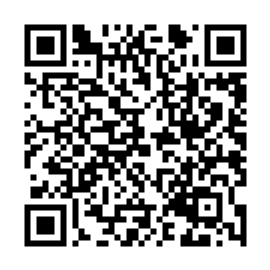
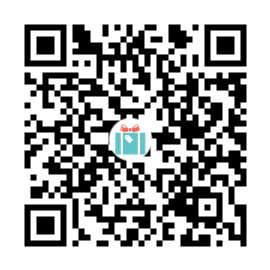
add: images and update UI in views of finished tsumitate and ticket to use

Changed region(s): [[0.3852, 0.4148, 0.563, 0.5926]]

diff --git a/lib/views/tsumitate/tsumitate_view.dart b/lib/views/tsumitate/tsumitate_view.dart
@@ -2,6 +2,7 @@ import 'package:flutter/cupertino.dart';
 import 'package:flutter/material.dart';
 import 'package:gohoubi_app/constants.dart';
 import 'package:gohoubi_app/models/user.dart';
+import 'package:gohoubi_app/views/ticket/components/ticket_use_view.dart';
 
 class TsumitateView extends StatelessWidget {
   @override
@@ -76,7 +77,7 @@ class TsumitateView extends StatelessWidget {
                                             ),
                                       ),
                                       Text(
-                                        '25600円',
+                                        '32000円',
                                         style: Theme.of(context)
                                             .textTheme
                                             .headline5
@@ -88,7 +89,7 @@ class TsumitateView extends StatelessWidget {
                                   ),
                                 ),
                                 Image.asset(
-                                  'assets/images/progress_823.png',
+                                  'assets/images/progress_100.png',
                                   height: 120,
                                 )
                               ],
@@ -147,7 +148,7 @@ class TsumitateView extends StatelessWidget {
                                             ),
                                       ),
                                       Text(
-                                        '80',
+                                        '2',
                                         style: Theme.of(context)
                                             .textTheme
                                             .headline5
@@ -166,84 +167,100 @@ class TsumitateView extends StatelessWidget {
                     ],
                   ),
                 ),
+                // Padding(
+                //   padding: const EdgeInsets.all(16.0),
+                //   child: Column(
+                //     crossAxisAlignment: CrossAxisAlignment.start,
+                //     children: [
+                //       Text(
+                //         '一緒に積立をしているフレンド',
+                //         style: Theme.of(context).textTheme.subtitle2.copyWith(
+                //               color: treapColor,
+                //               fontWeight: FontWeight.bold,
+                //             ),
+                //       ),
+                //       Padding(
+                //         padding: const EdgeInsets.only(
+                //           top: 8.0,
+                //           bottom: 4.0,
+                //           left: 4.0,
+                //           right: 4.0,
+                //         ),
+                //         child: Container(
+                //           decoration: BoxDecoration(
+                //               borderRadius: BorderRadius.circular(8.0)),
+                //           height: 200,
+                //           child: ListView(
+                //             children: [
+                //               ListTile(
+                //                 title: Text(
+                //                   'Eika',
+                //                   style: Theme.of(context)
+                //                       .textTheme
+                //                       .subtitle1
+                //                       .copyWith(
+                //                         fontWeight: FontWeight.bold,
+                //                       ),
+                //                 ),
+                //                 leading: Image.asset(
+                //                   'assets/images/1_friend_eika.png',
+                //                   height: 40,
+                //                 ),
+                //                 tileColor: Colors.grey.withOpacity(0.1),
+                //               ),
+                //               ListTile(
+                //                 title: Text(
+                //                   'Moeno',
+                //                   style: Theme.of(context)
+                //                       .textTheme
+                //                       .subtitle1
+                //                       .copyWith(
+                //                         fontWeight: FontWeight.bold,
+                //                       ),
+                //                 ),
+                //                 leading: Image.asset(
+                //                   'assets/images/2_friend_moeno.png',
+                //                   height: 40,
+                //                 ),
+                //                 tileColor: Colors.grey.withOpacity(0.1),
+                //               ),
+                //               ListTile(
+                //                 title: Text(
+                //                   'Mirei',
+                //                   style: Theme.of(context)
+                //                       .textTheme
+                //                       .subtitle1
+                //                       .copyWith(
+                //                         fontWeight: FontWeight.bold,
+                //                       ),
+                //                 ),
+                //                 leading: Image.asset(
+                //                   'assets/images/5_friend_mirei.png',
+                //                   height: 40,
+                //                 ),
+                //                 tileColor: Colors.grey.withOpacity(0.1),
+                //               ),
+                //             ],
+                //           ),
+                //         ),
+                //       ),
+                //     ],
+                //   ),
+                // ),
                 Padding(
-                  padding: const EdgeInsets.all(16.0),
-                  child: Column(
-                    crossAxisAlignment: CrossAxisAlignment.start,
-                    children: [
-                      Text(
-                        '一緒に積立をしているフレンド',
-                        style: Theme.of(context).textTheme.subtitle2.copyWith(
-                              color: treapColor,
-                              fontWeight: FontWeight.bold,
-                            ),
-                      ),
-                      Padding(
-                        padding: const EdgeInsets.only(
-                          top: 8.0,
-                          bottom: 4.0,
-                          left: 4.0,
-                          right: 4.0,
-                        ),
-                        child: Container(
-                          decoration: BoxDecoration(
-                              borderRadius: BorderRadius.circular(8.0)),
-                          height: 200,
-                          child: ListView(
-                            children: [
-                              ListTile(
-                                title: Text(
-                                  'Eika',
-                                  style: Theme.of(context)
-                                      .textTheme
-                                      .subtitle1
-                                      .copyWith(
-                                        fontWeight: FontWeight.bold,
-                                      ),
-                                ),
-                                leading: Image.asset(
-                                  'assets/images/1_friend_eika.png',
-                                  height: 40,
-                                ),
-                                tileColor: Colors.grey.withOpacity(0.1),
-                              ),
-                              ListTile(
-                                title: Text(
-                                  'Moeno',
-                                  style: Theme.of(context)
-                                      .textTheme
-                                      .subtitle1
-                                      .copyWith(
-                                        fontWeight: FontWeight.bold,
-                                      ),
-                                ),
-                                leading: Image.asset(
-                                  'assets/images/2_friend_moeno.png',
-                                  height: 40,
-                                ),
-                                tileColor: Colors.grey.withOpacity(0.1),
-                              ),
-                              ListTile(
-                                title: Text(
-                                  'Mirei',
-                                  style: Theme.of(context)
-                                      .textTheme
-                                      .subtitle1
-                                      .copyWith(
-                                        fontWeight: FontWeight.bold,
-                                      ),
-                                ),
-                                leading: Image.asset(
-                                  'assets/images/5_friend_mirei.png',
-                                  height: 40,
-                                ),
-                                tileColor: Colors.grey.withOpacity(0.1),
-                              ),
-                            ],
+                  padding: const EdgeInsets.only(
+                    top: 24.0,
+                    bottom: 8.0,
+                  ),
+                  child: Align(
+                    alignment: Alignment.center,
+                    child: Text(
+                      '積立が完了しました！',
+                      style: Theme.of(context).textTheme.subtitle1.copyWith(
+                            color: Colors.black87,
+                            fontWeight: FontWeight.bold,
                           ),
-                        ),
-                      ),
-                    ],
+                    ),
                   ),
                 ),
                 Padding(
@@ -259,7 +276,16 @@ class TsumitateView extends StatelessWidget {
                       right: 64.0,
                     ),
                     child: FlatButton(
-                      onPressed: () {},
+                      onPressed: () {
+                        Navigator.push(
+                          context,
+                          MaterialPageRoute(
+                            builder: (context) {
+                              return TicketUseView();
+                            },
+                          ),
+                        );
+                      },
                       color: treapColor,
                       splashColor: treapAccentColor,
                       shape: RoundedRectangleBorder(
@@ -269,7 +295,7 @@ class TsumitateView extends StatelessWidget {
                       minWidth: 200,
                       child: Align(
                         child: Text(
-                          '積立を編集する',
+                          'チケットを表示する',
                           style: Theme.of(context).textTheme.subtitle1.copyWith(
                                 color: Colors.white,
                                 fontWeight: FontWeight.bold,

diff --git a/lib/views/ticket/components/ticket_use_view.dart b/lib/views/ticket/components/ticket_use_view.dart
@@ -1,34 +1,28 @@
 import 'package:flutter/material.dart';
+import 'package:gohoubi_app/constants.dart';
 
 class TicketUseView extends StatelessWidget {
   @override
   Widget build(BuildContext context) {
-    return Scaffold(
-      appBar: AppBar(
-        iconTheme: IconThemeData(
-          color: Colors.black87,
-        ),
-        backgroundColor: Colors.white.withOpacity(0),
-        elevation: 0,
-      ),
-      body: Padding(
-        padding: const EdgeInsets.all(16.0),
-        child: Column(
-          children: [
-            Padding(
-              padding: const EdgeInsets.only(top: 16.0, bottom: 64.0),
-              child: Text(
-                'フロントに提示してください',
-                style: Theme.of(context)
-                    .textTheme
-                    .headline6
-                    .copyWith(fontWeight: FontWeight.bold),
-              ),
+    return Container(
+      color: treapColor,
+      child: Column(
+        mainAxisAlignment: MainAxisAlignment.center,
+        children: [
+          ClipRRect(
+              borderRadius: BorderRadius.circular(32.0),
+              child: Image.asset('assets/images/sakan_qrcode.png')),
+          Padding(
+            padding: const EdgeInsets.only(top: 64.0, bottom: 64.0),
+            child: Text(
+              'フロントに提示してください',
+              style: Theme.of(context).textTheme.headline6.copyWith(
+                    color: Colors.white,
+                    fontWeight: FontWeight.bold,
+                  ),
             ),
-            Image.asset('assets/images/sakan_barcode.png'),
-            Image.asset('assets/images/sakan_qrcode.png'),
-          ],
-        ),
+          ),
+        ],
       ),
     );
   }

diff --git a/lib/views/search/start_view.dart b/lib/views/search/start_view.dart
@@ -1,6 +1,8 @@
 import 'package:flutter/material.dart';
 import 'package:gohoubi_app/constants.dart';
 
+import '../home_tab_view.dart';
+
 class StartView extends StatelessWidget {
   @override
   Widget build(BuildContext context) {
@@ -60,7 +62,10 @@ class StartView extends StatelessWidget {
               ),
               child: FlatButton(
                 onPressed: () {
-                  // Navigator.of(context).popAndPushNamed('/search');
+                  Navigator.of(context)
+                      .push(MaterialPageRoute(builder: (context) {
+                    return HomeTabView();
+                  }));
                 },
                 color: Colors.white,
                 splashColor: treapAccentColor,
@@ -71,7 +76,7 @@ class StartView extends StatelessWidget {
                 minWidth: 150,
                 child: Align(
                   child: Text(
-                    'つみたてタブを開く',
+                    '戻る',
                     style: Theme.of(context).textTheme.subtitle1.copyWith(
                           color: treapColor,
                           fontWeight: FontWeight.bold,
